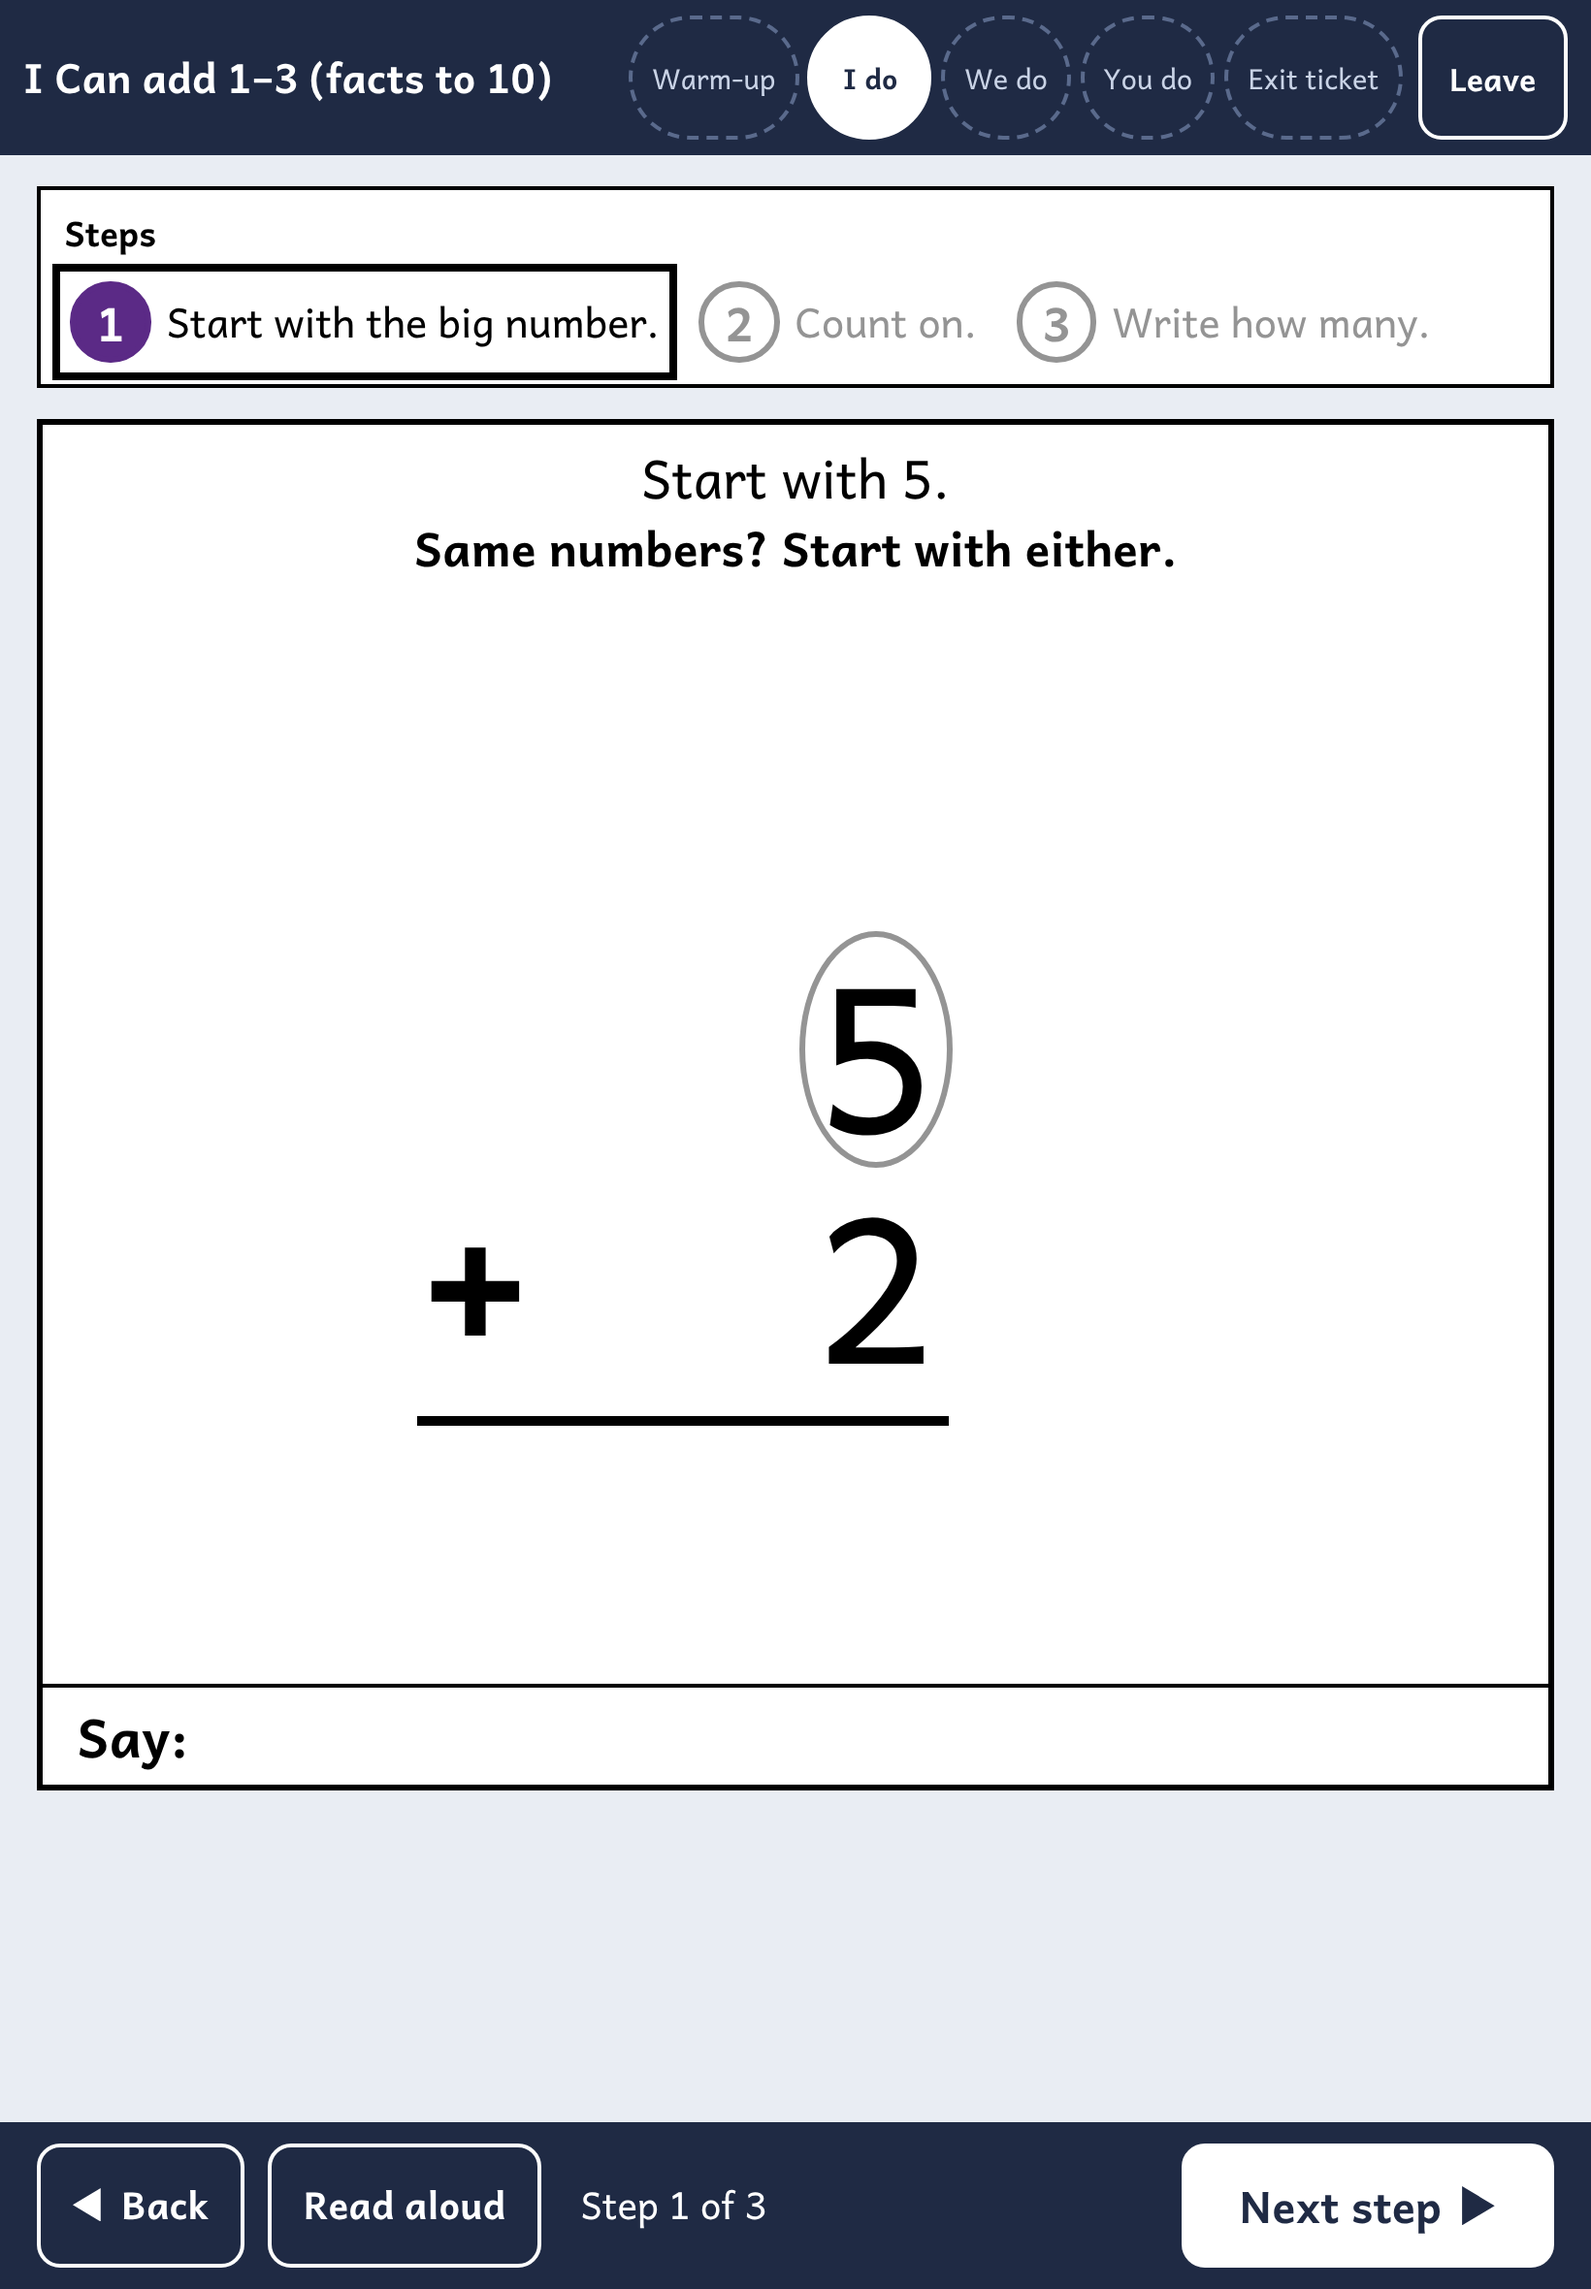
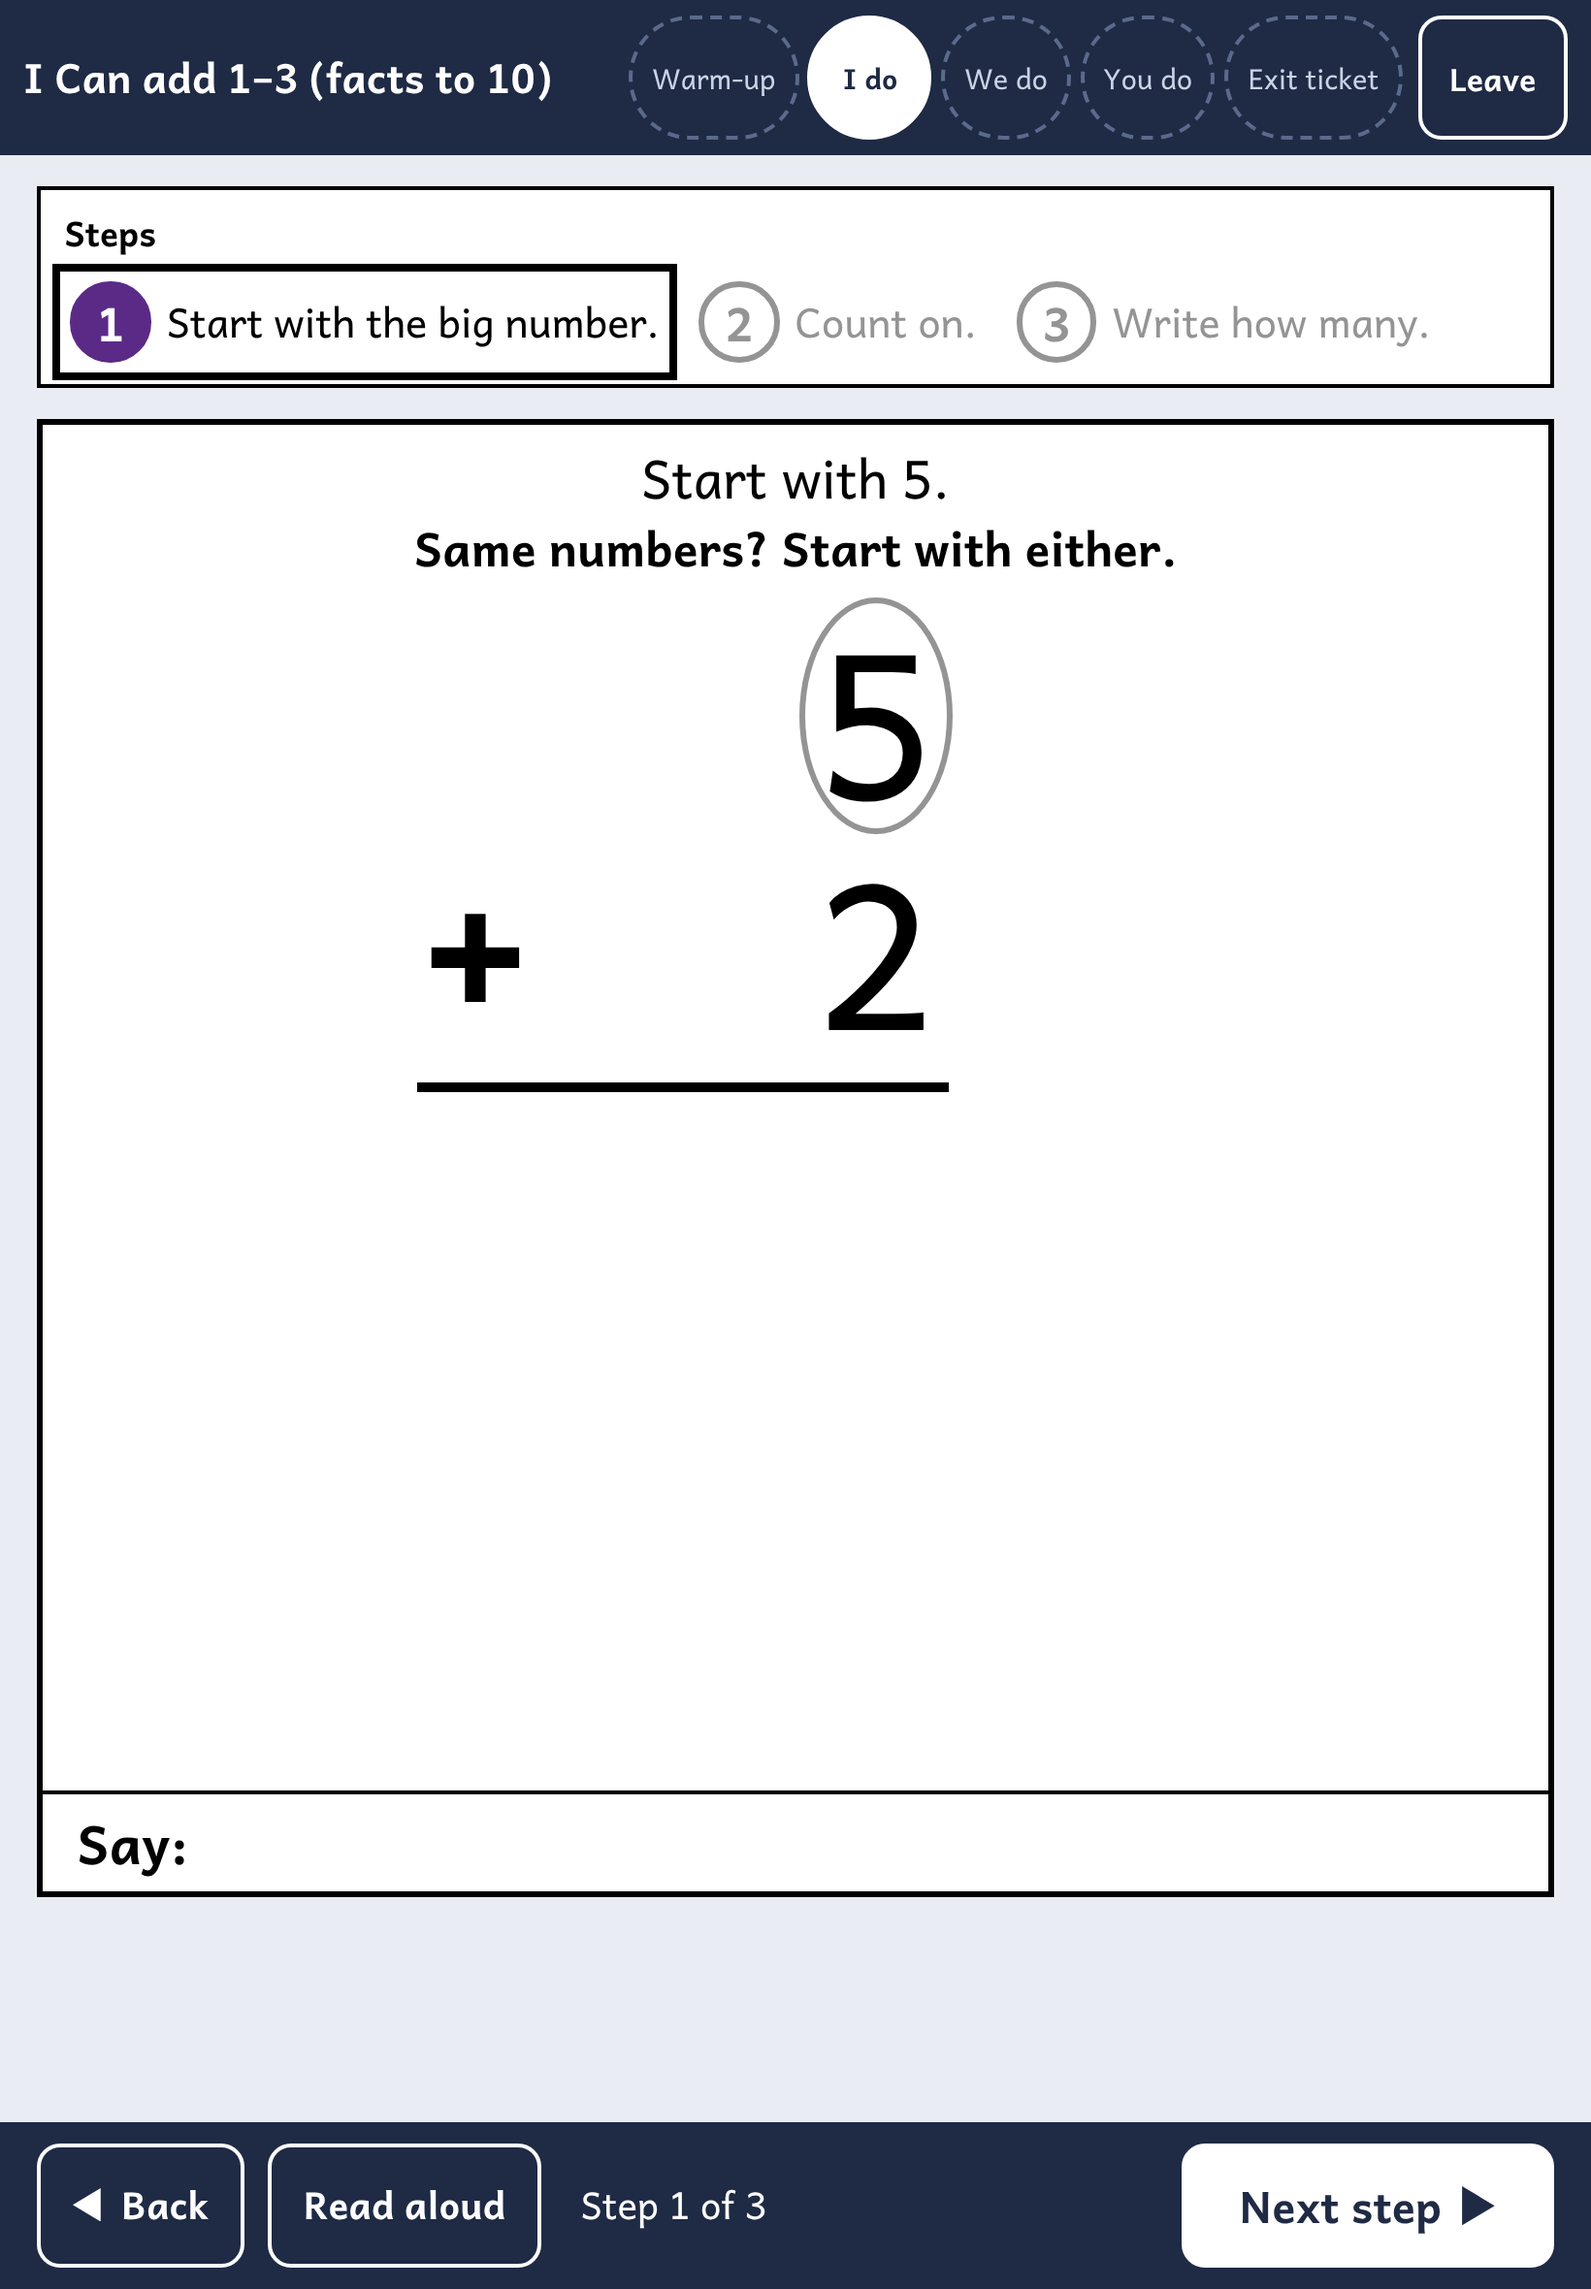
lf-hosts player: A26 count-on hops below the answer row at 820 (critic r3 F1), --hops-below check + A26b allowance
Claude-Session: https://claude.ai/code/session_013pHDnQ4fgVajj5vZ6fwpwV

diff --git a/js/modules/lesson-player/player.js b/js/modules/lesson-player/player.js
@@ -485,6 +485,10 @@ function setLayout(r, { chips, stack }) {
     if (stack) work.dataset.stack = '1'; else delete work.dataset.stack;
 }
 
+// A26 (lead ruling 2026-11-20; critic r3 F1): stacked, the hops' top margin under the drawing - with the group's gap,
+// 0.6 of a drawn digit, so they read as the count-on under the sum's answer, never as a row of the sum.
+const hopsDrop = (z, k) => Math.max(0, 0.6 * basePxOf() * z - 14 * k);
+
 function solveFit(r) {
     const p = idoPart();
     const k = kOf(r);
@@ -515,7 +519,8 @@ function solveFit(r) {
             const sideW = Math.min(availW, Math.max(m.wH * z, m.natW, m.wD * z));
             if (Math.max(m.wD, m.wH) * z > availW + 0.5) continue;
             const wh = m.wordsH(sideW);
-            const h = m.hD * z + gapS * 1.4 + wh + hops;
+            // (A26: stacked, the hops sit under the answer row, a group gap plus hopsDrop(z) below the drawing's foot)
+            const h = m.hD * z + gapS * 1.4 + wh + (m.hH ? gapS * 1.4 + hopsDrop(z, k) + m.hH * z : 0);
             if (h > availH + 0.5) continue;
             return { z, sideW, wordsH: wh, groupW: Math.max(m.wD * z, sideW), groupH: h };
         }
@@ -563,9 +568,13 @@ function applyFit(r, f) {
     draw.style.height = `${Math.ceil(f.hD * f.z)}px`;
     const side = r.querySelector('.mq-lp-side');
     side.style.width = `${Math.ceil(f.sideW)}px`;
-    r.querySelector('.mq-lp-wordsbox').style.minHeight = `${Math.ceil(f.wordsH)}px`;
+    const wbx = r.querySelector('.mq-lp-wordsbox');
+    wbx.style.minHeight = `${Math.ceil(f.wordsH)}px`;
+    // (A26: stacked, the side box dissolves (display: contents), so the words carry its width and the hops their drop)
+    wbx.style.width = f.lay.stack ? `${Math.ceil(f.sideW)}px` : '';
     const hops = r.querySelector('.mq-lp-hops');
     if (hops) {
+        hops.style.marginTop = f.lay.stack ? `${Math.ceil(hopsDrop(f.z, kOf(r)))}px` : '';
         hops.style.width = `${Math.ceil(f.wH * f.z)}px`;
         hops.style.height = `${Math.ceil(f.hH * f.z)}px`;
         hops.style.display = f.hH ? '' : 'none';

diff --git a/css/lesson-player.css b/css/lesson-player.css
@@ -124,6 +124,12 @@ body.mq-lp-open { overflow: hidden; }
    answer room sits at the foot, above the Say band (two bands, each under H13's 30 %, not one 43 % band) */
 .mq-lp-work[data-stack] .mq-lp-side, .mq-lp-work:not([data-variant="row"]) .mq-lp-side { order: -1; }
 .mq-lp-hops { flex: none; display: block; }
+/* A26 (lead ruling 2026-11-20; critic r3 F1): stacked, the hops go BELOW the answer row, never above the sum, where they read
+   as its top row. The side box dissolves so the words stay first and the hops follow the drawing; player.js applyFit sets
+   the words' width and the hops' top margin (>= 0.5 digit under the drawing's foot, as solveFit sizes it). */
+.mq-lp-work[data-stack] .mq-lp-side { display: contents; }
+.mq-lp-work[data-stack] .mq-lp-wordsbox { order: -1; }
+.mq-lp-work[data-stack] .mq-lp-hops { order: 1; }
 .mq-lp-work:not([data-variant="row"]) .mq-lp-wordsbox, .mq-lp-work[data-stack] .mq-lp-wordsbox { text-align: center; width: 100%; }
 .mq-lp-zoom { display: inline-block; }
 /* the chart's state drawing, as on paper (the kit's .ws-sheet rules), without the page box: zoomed as a whole to the
